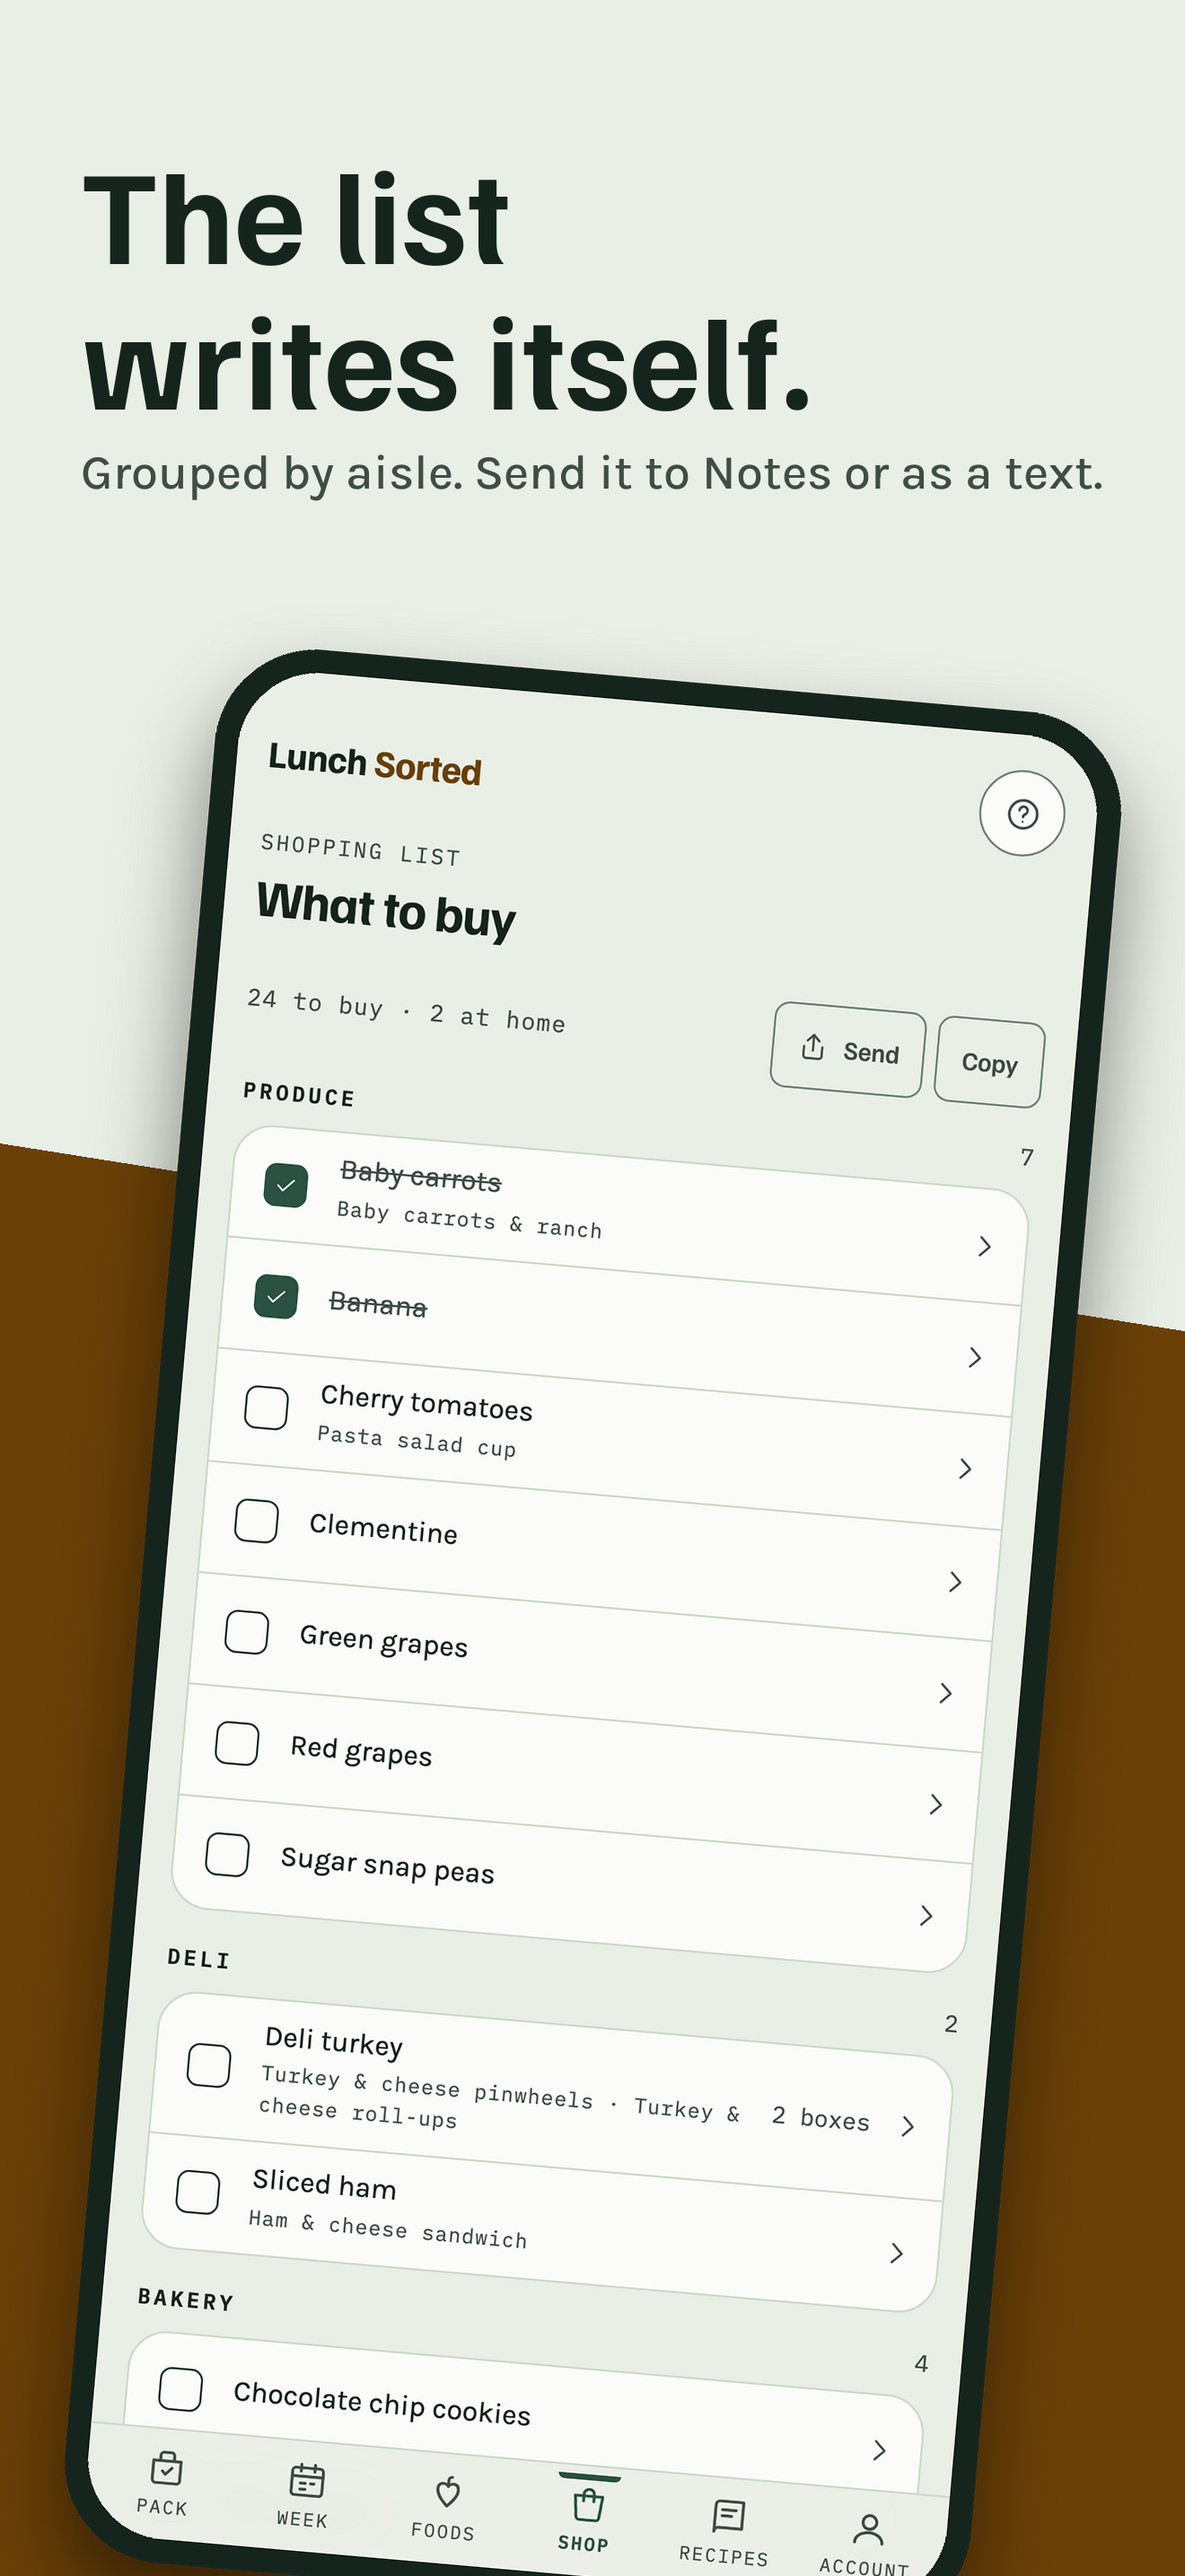
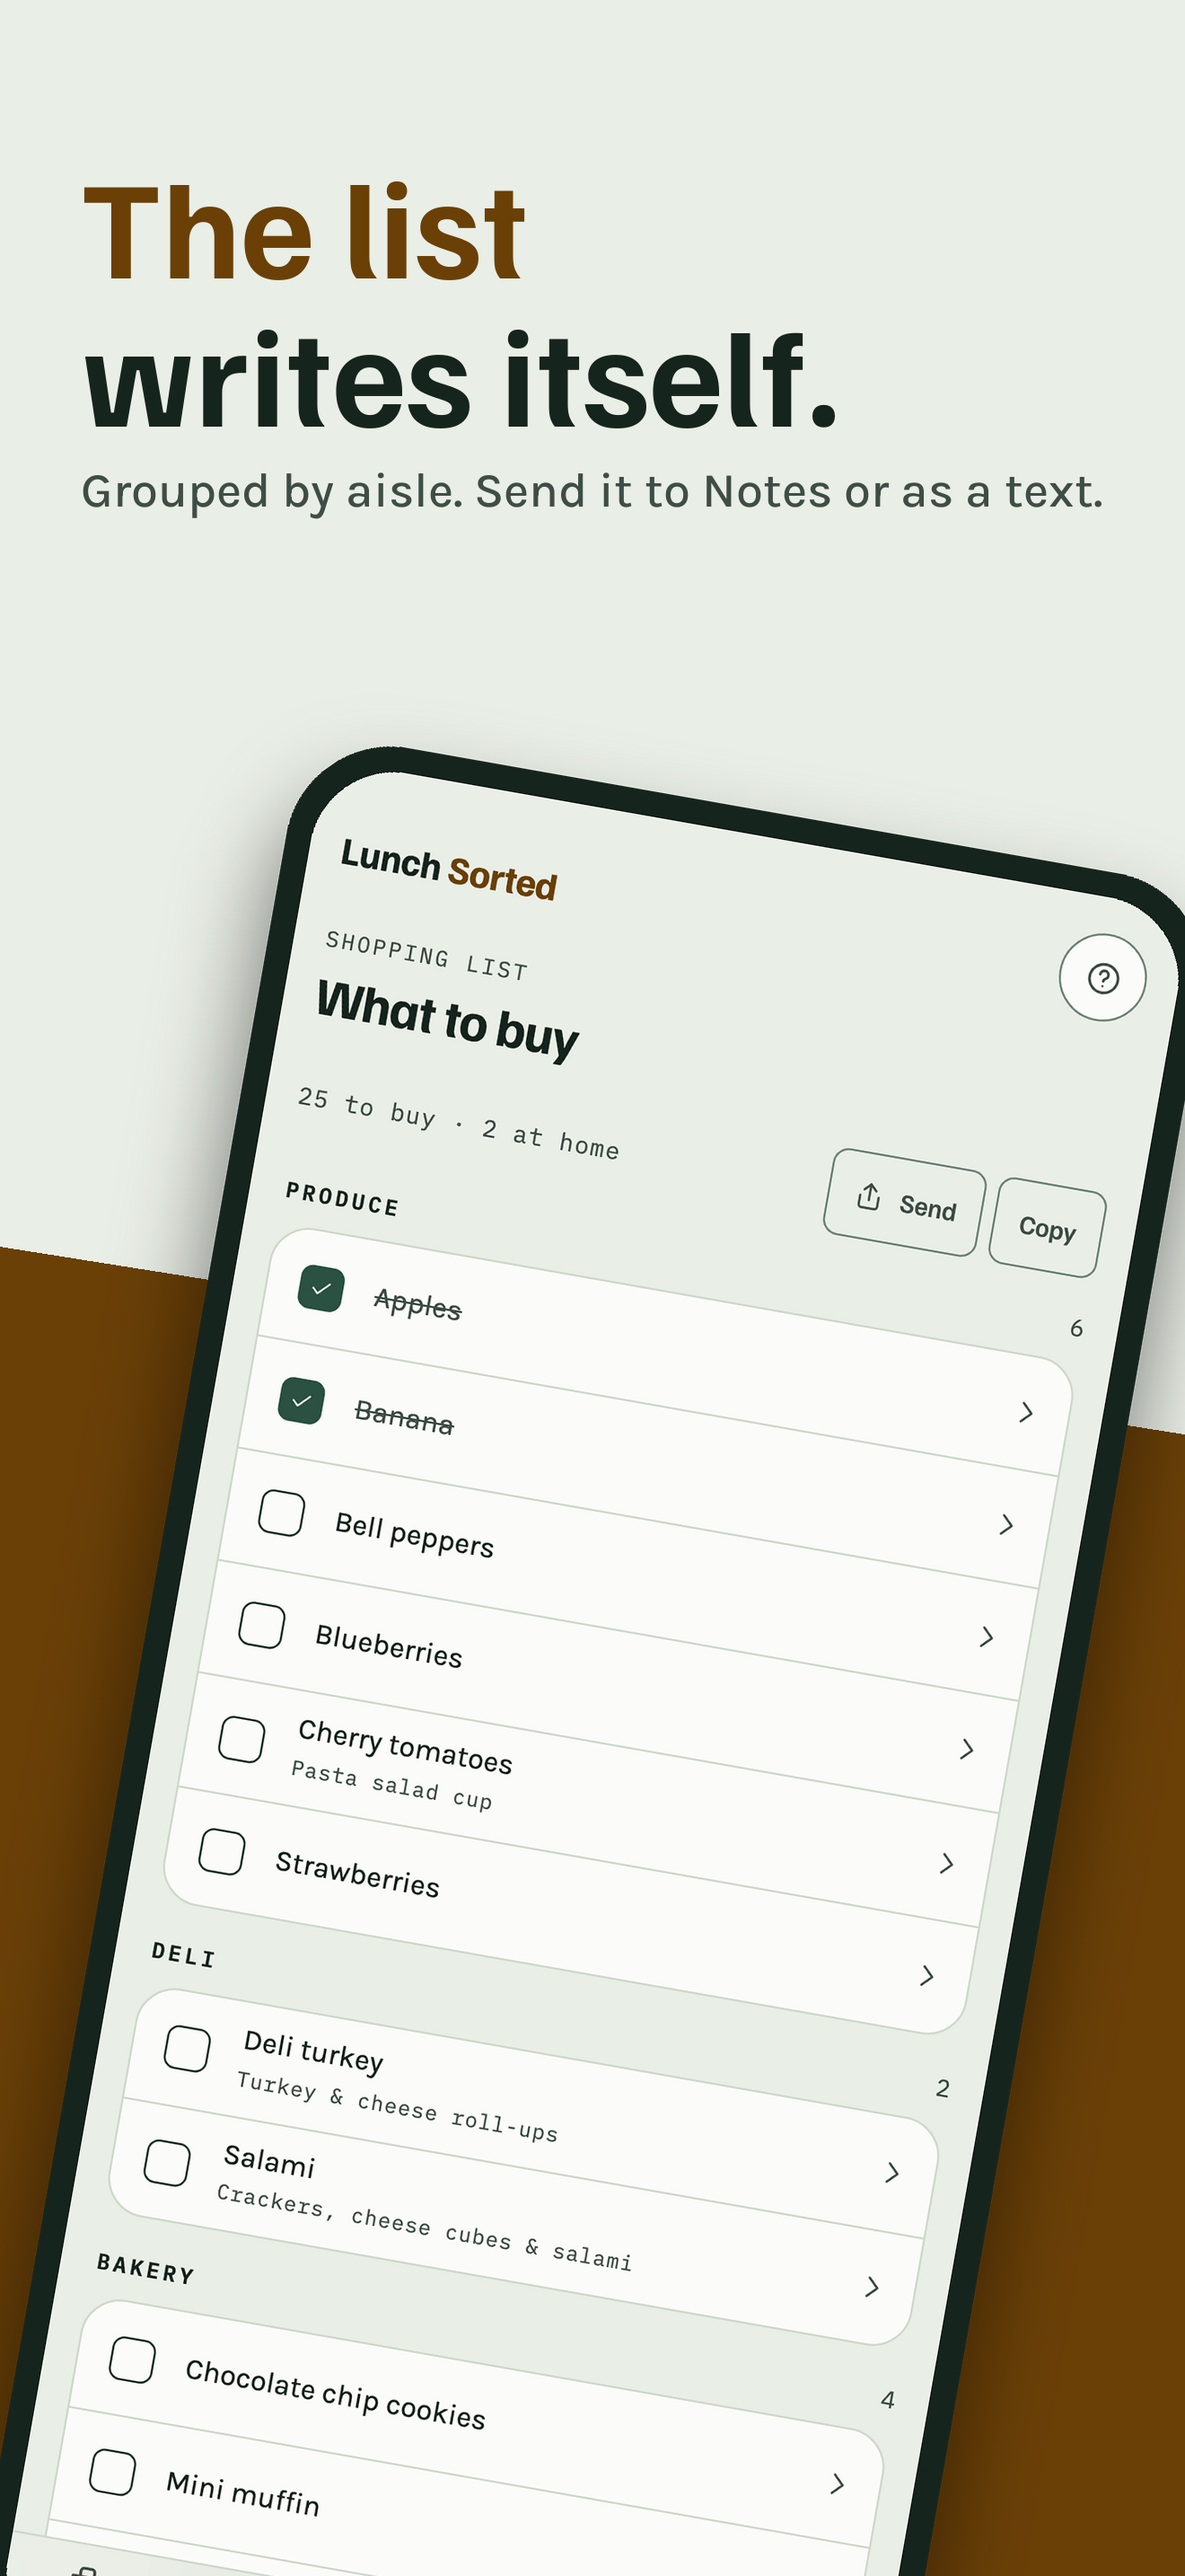
Store: the first three screenshots are one scene the way SchoolCafé's are
Three big phones at thirteen degrees, each crossing into the next frame and
running off the bottom, the later one on top, under one green slab; the
headline's first line takes the frame's color. The other five get the same
angle and size, the bezel running off the sides and the screen whole.

diff --git a/scripts/store-compose.py b/scripts/store-compose.py
@@ -1,26 +1,27 @@
-"""Composes the App Store screenshots: each raw capture from store-shots.mjs set in a
-phone with a heavy bezel, tilted a few degrees, over a slab of one of the icon's four
-compartment colors on the app's ground color, under a short headline, at 1320x2868 (the
-6.9-inch slot; App Store Connect scales it for smaller phones). The first three are drawn
-as one wide scene and cut into three, because search results show them side by side.
-Fonts are the app's own, checked in under store/ (Familjen Grotesk and Karla, both under
-the SIL Open Font License, from Google Fonts). Run by scripts/store-shots.mjs."""
+"""Composes the App Store screenshots at 1320x2868 (the 6.9-inch slot; App Store Connect
+scales it for smaller phones): each raw capture from store-shots.mjs in a phone with a heavy
+bezel, at a real angle and large enough that the screen reads, running off the frame, on the
+app's ground color with a slab of one of the icon's four compartment colors behind. The first
+three are one scene three frames wide, cut in three, because search results show them side by
+side: the phones cross the cuts and overlap, the way one picture does. Fonts are the app's own,
+checked in under store/ (Familjen Grotesk and Karla, SIL Open Font License). Run by
+scripts/store-shots.mjs."""
 from PIL import Image, ImageDraw, ImageFont, ImageFilter
 import os
 
 OUT = 'store/screenshots'
 W, H = 1320, 2868
 GROUND = (0xE9, 0xEE, 0xE6)          # the page color, the canvas
-INK = (0x16, 0x24, 0x1E)             # the headline and the bezel
+INK = (0x16, 0x24, 0x1E)             # the headline's second line and the bezel
 INK2 = (0x3E, 0x4D, 0x45)            # the line under the headline
 # The icon's four compartment colors (HANDBOOK.md, The brand): main, side, fruit, sweet.
 BACKS = [(0x2A, 0x51, 0x41), (0x6A, 0x40, 0x07), (0x84, 0x27, 0x3E), (0x50, 0x3E, 0x7E)]
-BAND = 3            # the first three run as one scene: search results show them side by side
+BAND = 3            # the first three run as one scene
 HEAD_FONT = 'store/FamiljenGrotesk-Bold.ttf'
 SUB = ImageFont.truetype('store/Karla-Medium.ttf', 54)
 
-# (raw capture, output name, headline, one line under it). The headline is two lines at most:
-# the first three screenshots sit side by side in search results at a third of this width.
+# (raw capture, output name, headline, one line under it). The headline is two lines at most;
+# its first line takes the frame's color, the second the ink.
 SHOTS = [
     ('week',    '01-week',    'A week of lunches\nin a minute.',    'Five boxes, matched so they go together.'),
     ('pack',    '02-pack',    'Mornings:\none box, one check.',     'Today’s box, and the week coming up.'),
@@ -31,12 +32,11 @@ SHOTS = [
     ('setup',   '07-rules',   'Your school’s rules,\nrespected.',   'Nut free, no microwave, a short lunch. Flagged, never dropped.'),
     ('foods',   '08-foods',   'Foods they’ll\nactually eat.',       'Start from what parents pack.'),
 ]
+CROP_TOP = {'kidpick': 320}   # raw pixels off the top: the pick starts at its question, the phone runs off the bottom anyway
 
-SCREEN_W = 960      # the screen inside the bezel; every phone is the same size, and runs just off the bottom
-BEZEL = 26
-TILT = 5            # degrees; alternates sign down the set so three in a row read as a set, not a wall
+BEZEL = 28
 MARGIN = 90
-PHONE_TOP = 700     # where the bezel's top lands; the headline block ends above it
+PAD = 200                     # room around a phone for its shadow's blur
 
 def wrap(draw, text, font, width):
     lines = []
@@ -51,19 +51,19 @@ def wrap(draw, text, font, width):
 
 def headline(draw, text, width):
     """The biggest size at which the headline is two lines or fewer."""
-    for size in range(150, 100, -4):
+    for size in range(156, 100, -4):
         font = ImageFont.truetype(HEAD_FONT, size)
         lines = wrap(draw, text, font, width)
         if len(lines) <= 2: return font, lines, size
     return font, lines, size
 
-def caption(canvas, x, head, sub):
+def caption(canvas, x, head, sub, color):
     d = ImageDraw.Draw(canvas)
     font, lines, size = headline(d, head, W - 2 * MARGIN)
-    y = 140
-    for line in lines:
-        d.text((x + MARGIN, y), line, font=font, fill=INK); y += int(size * 1.08)
-    y += 30
+    y = 150
+    for n, line in enumerate(lines):
+        d.text((x + MARGIN, y), line, font=font, fill=color if n == 0 else INK); y += int(size * 1.06)
+    y += 34
     for line in wrap(d, sub, SUB, W - 2 * MARGIN):
         d.text((x + MARGIN, y), line, font=SUB, fill=INK2); y += 68
 
@@ -72,57 +72,62 @@ def rounded(im, r):
     ImageDraw.Draw(mask).rounded_rectangle([0, 0, im.width - 1, im.height - 1], r, fill=255)
     out = Image.new('RGBA', im.size, (0, 0, 0, 0)); out.paste(im, (0, 0), mask); return out
 
-PAD = 160           # room around the phone for the shadow's blur
-
-def phone(raw, sign):
-    """The capture in a bezel, with its shadow, tilted, as one RGBA layer."""
+def phone(raw, screen_w, angle):
+    """The capture in a bezel, with its shadow, turned by angle (counterclockwise), one RGBA layer."""
     shot = Image.open(os.path.join(OUT, 'raw-' + raw + '.png')).convert('RGB')
-    sw = SCREEN_W; sh = int(shot.height * sw / shot.width)
-    screen = rounded(shot.resize((sw, sh), Image.LANCZOS), 88)
+    if raw in CROP_TOP: shot = shot.crop((0, CROP_TOP[raw], shot.width, shot.height))
+    sw = screen_w; sh = int(shot.height * sw / shot.width)
+    screen = rounded(shot.resize((sw, sh), Image.LANCZOS), int(sw * 0.095))
     fw, fh = sw + 2 * BEZEL, sh + 2 * BEZEL
     layer = Image.new('RGBA', (fw + 2 * PAD, fh + 2 * PAD), (0, 0, 0, 0))
     shadow = Image.new('RGBA', layer.size, (0, 0, 0, 0))
-    ImageDraw.Draw(shadow).rounded_rectangle([PAD, PAD + 50, PAD + fw, PAD + fh + 50], 112, fill=(0, 0, 0, 120))
-    layer.alpha_composite(shadow.filter(ImageFilter.GaussianBlur(44)))
-    ImageDraw.Draw(layer).rounded_rectangle([PAD, PAD, PAD + fw, PAD + fh], 112, fill=INK + (255,))
+    ImageDraw.Draw(shadow).rounded_rectangle([PAD, PAD + 60, PAD + fw, PAD + fh + 60], int(sw * 0.12), fill=(0, 0, 0, 130))
+    layer.alpha_composite(shadow.filter(ImageFilter.GaussianBlur(50)))
+    ImageDraw.Draw(layer).rounded_rectangle([PAD, PAD, PAD + fw, PAD + fh], int(sw * 0.12), fill=INK + (255,))
     layer.alpha_composite(screen, (PAD + BEZEL, PAD + BEZEL))
-    return layer.rotate(sign * TILT, resample=Image.BICUBIC, expand=True)
+    return layer.rotate(angle, resample=Image.BICUBIC, expand=True)
 
-def place(canvas, layer, cx):
-    """The phone centered on cx, its bezel's top near PHONE_TOP."""
-    canvas.paste(layer, (cx - layer.width // 2, PHONE_TOP - PAD), layer)
+def place(canvas, layer, cx, top):
+    """The phone's bounding box centered on cx, its top edge (before the shadow's room) at top."""
+    canvas.paste(layer, (cx - layer.width // 2, top - PAD), layer)
 
-def slab(canvas, color, angle, cy, width):
-    """A compartment-colored slab, tilted, running off the sides and the bottom: color behind
-    the phone, not all over the page."""
-    layer = Image.new('RGBA', (width, int(H * 0.75)), (0, 0, 0, 0))
-    ImageDraw.Draw(layer).rounded_rectangle([0, 0, layer.width - 1, layer.height - 1], 140, fill=color + (255,))
+def slab(canvas, color, angle, cy, width, height):
+    """A compartment-colored slab, tilted, running off the sides and the bottom."""
+    layer = Image.new('RGBA', (width, height), (0, 0, 0, 0))
+    ImageDraw.Draw(layer).rounded_rectangle([0, 0, width - 1, height - 1], 160, fill=color + (255,))
     layer = layer.rotate(angle, resample=Image.BICUBIC, expand=True)
     canvas.paste(layer, ((canvas.width - layer.width) // 2, cy - layer.height // 2), layer)
 
 missing = [r for r, *_ in SHOTS if not os.path.exists(os.path.join(OUT, 'raw-' + r + '.png'))]
 if missing: raise SystemExit('missing raw captures: ' + ', '.join(missing))
 
-# The first three: one scene, BAND frames wide. The phones lean in and cross the cuts a little,
-# the middle one on top, so the row in search results reads as one picture.
+# The first three: one scene. Three big phones at fourteen degrees, each leaning into the next
+# frame and running off the bottom, the later one on top of the earlier; one green slab under all
+# three. Each frame keeps its own headline at the top, where nothing crosses.
 wide = Image.new('RGB', (W * BAND, H), GROUND)
-slab(wide, BACKS[0], 6, int(H * 0.8), int(W * BAND * 1.3))
-for i in range(BAND): caption(wide, i * W, SHOTS[i][2], SHOTS[i][3])
-centers = [int(W * 0.65), int(W * 1.5), int(W * 2.45)]   # the first leans into the second frame; the third stays whole, its screen reads from the left edge
-layers = [phone(SHOTS[i][0], 1 if i % 2 == 0 else -1) for i in range(BAND)]
-for i in (0, 2, 1): place(wide, layers[i], centers[i])
+slab(wide, BACKS[0], 7, int(H * 0.92), int(W * BAND * 1.3), int(H * 0.8))
+for i in range(BAND): caption(wide, i * W, SHOTS[i][2], SHOTS[i][3], BACKS[0])
+scene = [  # (frame, screen width, angle, center x, top y)
+    (0, 1180, -13, int(W * 0.56), 760),
+    (1, 1180,  13, int(W * 1.50), 820),
+    (2, 1180, -13, int(W * 2.46), 760),
+]
+for i, sw, angle, cx, top in scene:
+    place(wide, phone(SHOTS[i][0], sw, angle), cx, top)
 for i in range(BAND):
     wide.crop((i * W, 0, (i + 1) * W, H)).save(os.path.join(OUT, SHOTS[i][1] + '.png'), optimize=True)
     print('composed', SHOTS[i][1])
-wide.resize((W * BAND // 3, H // 3)).save('/private/tmp/claude-501/-Users-lizkronzek-lunch-sorted/5ba8f9d4-3a70-4bef-bc17-eafc058fa828/scratchpad/wide.png') if os.environ.get('WIDE_PREVIEW') else None
+if os.environ.get('WIDE_PREVIEW'):
+    wide.resize((W * BAND // 3, H // 3)).save(os.environ['WIDE_PREVIEW'])
 
-# The rest: one frame each, the slab's color and tilt alternating.
+# The rest: one frame each, the same angle and size, the slab's color and lean alternating.
 for i in range(BAND, len(SHOTS)):
     raw, name, head, sub = SHOTS[i]
     sign = 1 if i % 2 == 0 else -1
+    color = BACKS[(i - BAND + 1) % len(BACKS)]
     canvas = Image.new('RGB', (W, H), GROUND)
-    slab(canvas, BACKS[(i - BAND + 1) % len(BACKS)], sign * 9, int(H * 0.86), int(W * 1.6))
-    caption(canvas, 0, head, sub)
-    place(canvas, phone(raw, sign), W // 2)
+    slab(canvas, color, sign * 9, int(H * 0.9), int(W * 1.8), int(H * 0.75))
+    caption(canvas, 0, head, sub, color)
+    place(canvas, phone(raw, 980, sign * 10), W // 2, 780)   # the bezel runs off the sides, the screen does not
     canvas.save(os.path.join(OUT, name + '.png'), optimize=True)
     print('composed', name)

diff --git a/store/listing.md b/store/listing.md
@@ -144,14 +144,13 @@ the enrollment, so settle it before launch.
 7. `07-rules.png`: Your school's rules, respected. / Nut free, no microwave, a short lunch. Flagged, never dropped.
 8. `08-foods.png`: Foods they'll actually eat. / Start from what parents pack.
 
-Redesigned 2026-10-28 at Liz's ask (the September set read as a document, not an ad): the
-page stays the ground color with the headline in ink, and each screen sits in a phone with a
-heavy bezel, tilted five degrees, alternating, over a slab of one of the icon's four compartment
-colors that runs off the sides and the bottom (a full-color page read as aggressive; the color
-is behind the phone, not all over). Two-line headline, one short line. The first three are what
-search results show side by side, so they are one scene cut in three: one green band across all
-three, the phones the same size as the rest of the set, the first leaning into the second frame
-and the middle one on top. Headlines are sized to read at a third of this width.
+Redesigned 2026-10-28 at Liz's ask, against SchoolCafé's set (the September set read as a
+document, not an ad): the page stays the ground color; each screen sits in a phone with a heavy
+bezel at ten to thirteen degrees, large enough that the screen reads, running off the bottom,
+over a slab of one of the icon's four compartment colors behind the lower half; the headline's
+first line takes the frame's color. The first three are one scene three frames wide, cut in
+three, because search results show them side by side: the phones cross the cuts and overlap,
+the later one on top, under one green slab. Headlines are sized to read at a third of this width.
 
 They live in `screenshots/`, 1320×2868, the 6.9-inch slot, and App Store Connect scales
 them for the smaller phones. Regenerate with `CHROMIUM_PATH=… node scripts/store-shots.mjs`.
